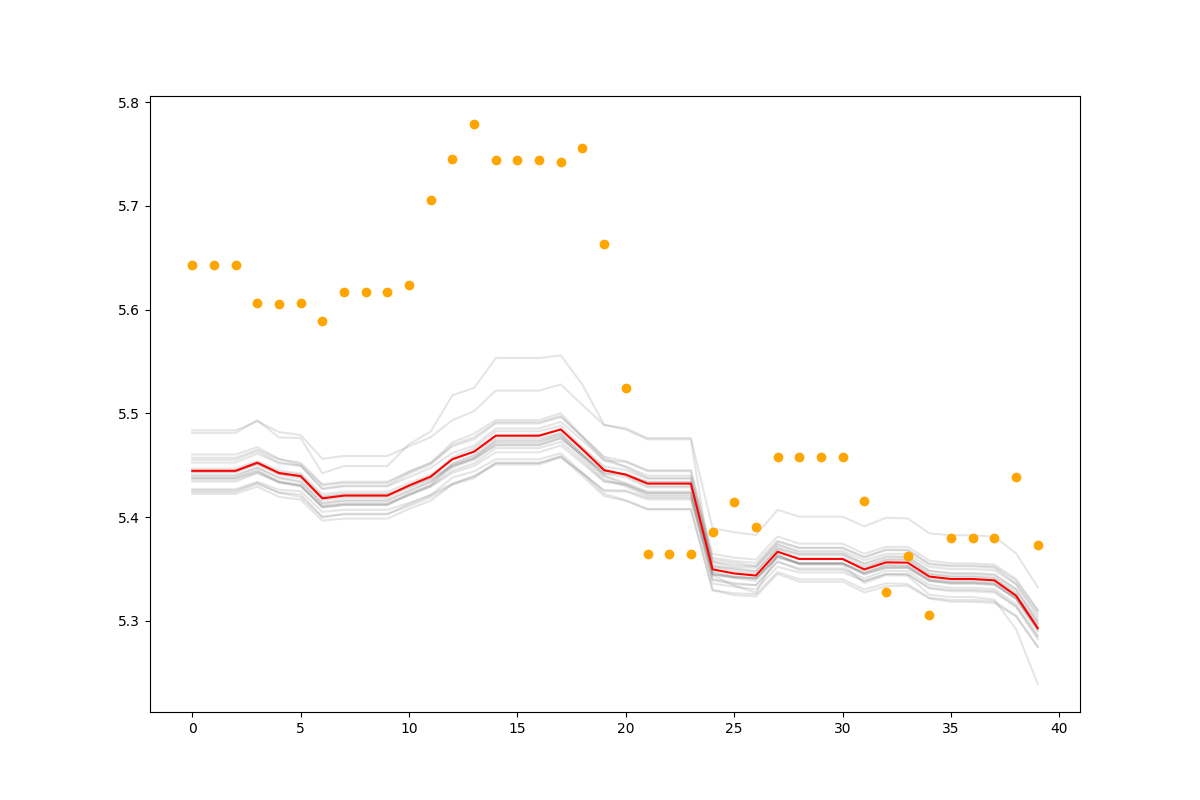
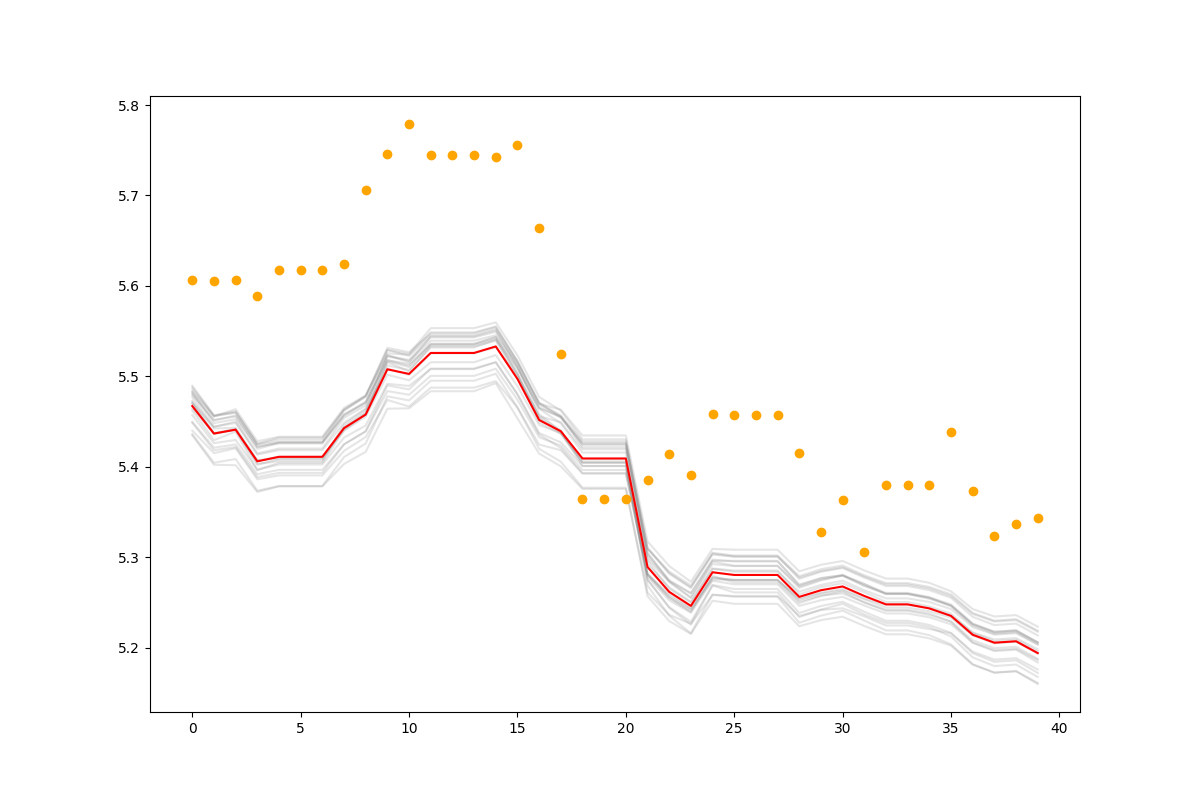
f

diff --git a/model.py b/model.py
@@ -20,6 +20,16 @@ def mlModel2(df):
                 self.classifier_ = StandardScaler()
             elif self.classifier_type == 'MinMaxScaler':
                 self.classifier_ = MinMaxScaler()
+            elif self.classifier_type == 'MaxAbsScaler':
+                self.classifier_ = MaxAbsScaler()
+            elif self.classifier_type == 'RobustScaler':
+                self.classifier_ = RobustScaler()
+            elif self.classifier_type == 'QuantileTransformerUniform':
+                self.classifier_ = QuantileTransformer(output_distribution="uniform")
+            elif self.classifier_type == 'QuantileTransformerNormal':
+                self.classifier_ = QuantileTransformer(output_distribution="normal")
+            elif self.classifier_type == 'PowerTransformer':
+                self.classifier_ = PowerTransformer(method="yeo-johnson")
             else:
                 raise ValueError('Unkown classifier type.')
 
@@ -32,15 +42,13 @@ def mlModel2(df):
 
     l1_space = np.linspace(0, 1, 5)
     alpha=np.logspace(-1,1,5)
-    param_grid = {"clf__base_estimator__alpha":alpha,'clf__base_estimator__l1_ratio': l1_space,"norm__classifier_type":["MinMaxScaler","StandardScaler"]}
+    param_grid = {"clf__base_estimator__alpha":alpha,'clf__base_estimator__l1_ratio': l1_space,"norm__classifier_type":["MinMaxScaler","StandardScaler","MaxAbsScaler","RobustScaler","QuantileTransformerNormal","QuantileTransformerUniform","PowerTransformer"]}
     model = BaggingRegressor(ElasticNet(tol=1), n_estimators=20)
 
     pipe = Pipeline([('norm', MyClassifier()), ('clf', model)])
 
 
-    gm_cv = GridSearchCV(pipe, param_grid, cv=4,refit=True)
-    for param in gm_cv.get_params().keys():
-        print(param)
+    gm_cv = GridSearchCV(pipe, param_grid, cv=5,refit=True)
     X = df.loc[:,df.columns!="usd_brl"] 
     Y = df['usd_brl']
     X_train, X_test, y_train, y_test = train_test_split(X, Y, test_size = 0.4, random_state=42)
@@ -54,12 +62,8 @@ def mlModel2(df):
     betspar = gm_cv.best_params_
     est = gm_cv.best_estimator_.named_steps['clf']
     norm = gm_cv.best_estimator_.named_steps['norm']
-    coef = "est.coef_"
-    intercept = "est.intercept_"
 
-    print("Tuned ElasticNet l1 ratio: {}".format(betspar))
+    print("Tuned ElasticNet best estimators: {}".format(betspar))
     print("Tuned ElasticNet R squared: {}".format(r2))
     print("Tuned ElasticNet MSE: {}".format(mse))
-    print("Coeficients: {}".format(coef))
-    print("Intercept: {}".format(intercept))
-    return gm_cv,betspar,r2,mse,coef,intercept,residual,est,norm
+    return gm_cv,betspar,r2,mse,residual,est,norm

diff --git a/alltogether.py b/alltogether.py
@@ -9,12 +9,12 @@ years=1
 consider=["divida/pib eua","Relacao divida/pib Brasil","dxy","brent",'gold','bovespa','vix','usd_cny','usd_cop','usd_mxn','usd_brl',"Fed interest rate decisions","Selic"]
 df=getData(years,consider)
 
-gm_cv,betspar,r2,mse,coef,intercept,residual,estimator,norm=mlModel2(df)
+gm_cv,betspar,r2,mse,residual,estimator,norm=mlModel2(df)
 
 sevendaysdf=df.loc[df.index >= len(df.index)-40, df.columns!="usd_brl"]
 sevendaysdfY=df.loc[df.index >= len(df.index)-40, df.columns=="usd_brl"]
 sevendaysPredict=gm_cv.predict(sevendaysdf)
-print(coef)
+
 print(sevendaysPredict)
 
 norm__classifier_type=betspar["norm__classifier_type"]
@@ -25,14 +25,13 @@ x = list(range(len(sevendaysdf)))
 plt.figure(figsize=(12,8))
 
 for m in estimator.estimators_:
-    print("IN")
-    print(m.predict(sevendaysdf))
+    print(m.coef_)
+    print(m.intercept_)
     plt.plot(x, m.predict(sevendaysdf), color='grey', alpha=0.2, zorder=1)
 
 plt.scatter(x,sevendaysdfY, marker='o', color='orange', zorder=4)
 
 # "Bagging model" prediction
 plt.plot(x,sevendaysPredict, color='red', zorder=5)
-
 
 plt.savefig('testplot.png')

diff --git a/datas.py b/datas.py
@@ -6,7 +6,7 @@ def get_dates(N_ofyears,formatD):
 
     ano_final = datetime.datetime.now()
     ano_inicial = (datetime.datetime.now() - relativedelta(years=N_ofyears))
-    dateRange=pd.date_range(ano_inicial,(ano_final-timedelta(days=1)).strftime('%d/%m/%Y'),freq='d').strftime('%b %d, %Y')
+    dateRange=pd.date_range(ano_inicial,(ano_final-timedelta(days=0)).strftime('%d/%m/%Y'),freq='d').strftime('%b %d, %Y')
     if(formatD=="/"):
         ano_final = ano_final.strftime('%m/%d/%Y')
         ano_inicial=ano_inicial.strftime('%m/%d/%Y')
